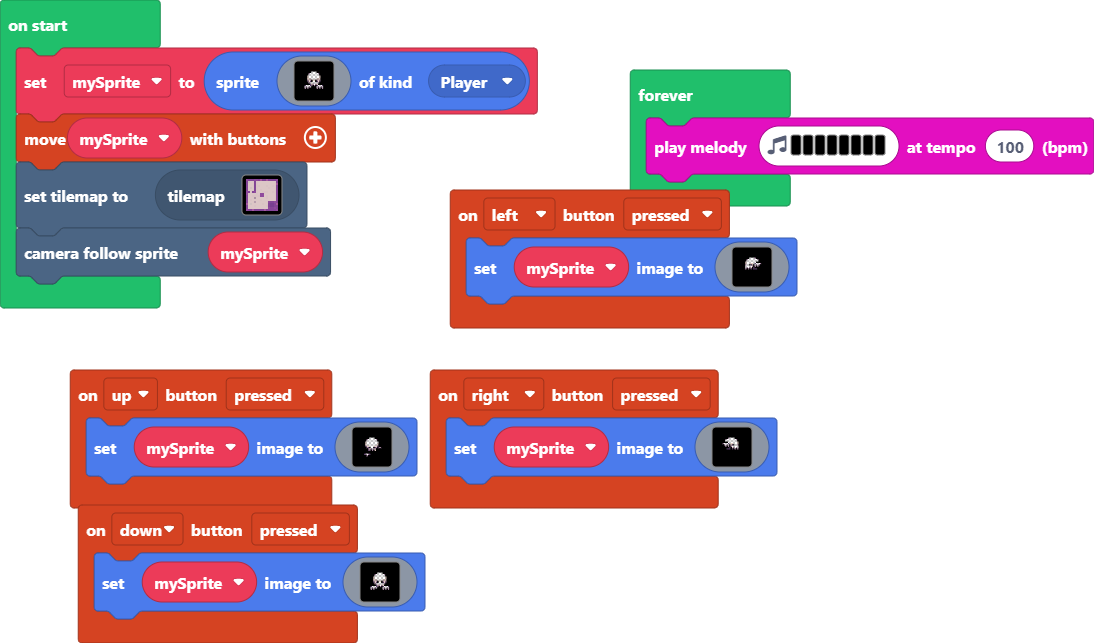
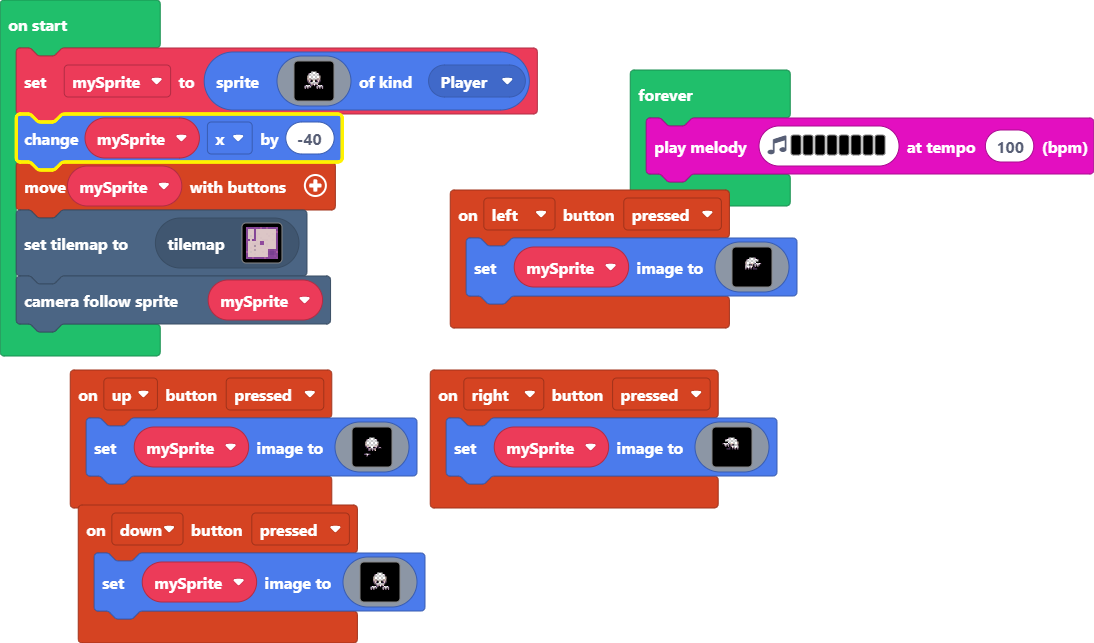
Update main.blocks, main.ts, tilemap.g.jres, tilemap.g.ts

Changed region(s): [[0.0, 0.1555, 0.3419, 0.5599]]

diff --git a/tilemap.g.ts b/tilemap.g.ts
@@ -63,7 +63,7 @@ namespace myTiles {
 . . . . . . . . . . . . . . . . 
 `, [myTiles.transparency16], TileScale.Sixteen);
             case "level1":
[2 lines of base64/hex data omitted]
 2 2 2 2 2 2 2 2 2 2 2 2 2 2 2 2 
 2 . . . 2 . . . . . . . . . . 2 
 2 . . . 2 . . . . . . . . . . 2 

diff --git a/main.ts b/main.ts
@@ -137,6 +137,7 @@ mySprite = sprites.create(img`
     ........................
     ........................
     `, SpriteKind.Player)
+mySprite.x += -40
 controller.moveSprite(mySprite)
 tiles.setCurrentTilemap(tilemap`level1`)
 scene.cameraFollowSprite(mySprite)
